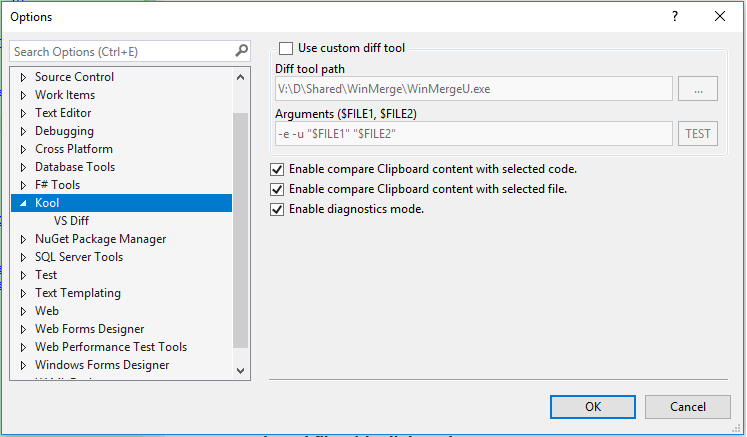
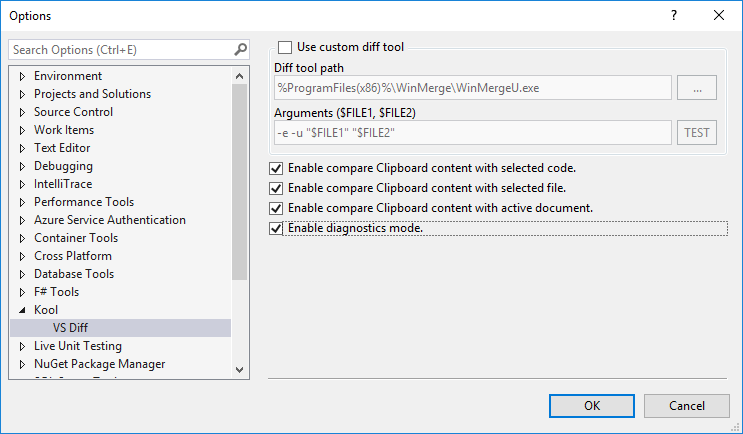
Update readme

diff --git a/Readme.md b/Readme.md
@@ -6,7 +6,7 @@ master|dev
 
 VS Diff is an open sourced Visual Studio extension tool, which makes it more easily to compare files and code.
 
-You can download it via Visual Studio 2015/2017 'Extensions and Updates' or from the [marketplace](https://marketplace.visualstudio.com/items?itemName=iheku.VsDiff).
+You can download it via Visual Studio 2015/17/19 'Extensions and Updates' or from the [marketplace](https://marketplace.visualstudio.com/items?itemName=iheku.VsDiff).
 
 ## Features
 - Compare two selected files in Solution Explorer.
@@ -20,6 +20,10 @@ You can download it via Visual Studio 2015/2017 'Extensions and Updates' or from
 - Compare the selection code with Clipboard content.
 
     ![CompareSelectionCodeWithClipboard.png](Images/CompareSelectionCodeWithClipboard.png)
+
+- Compare the active document with Clipboard content.
+
+    ![CompareActiveDocumentWithClipboard.png](Images/CompareActiveDocumentWithClipboard.png)
 
 ## Configurable
 ![Configuration.png](Images/Configuration.png)
